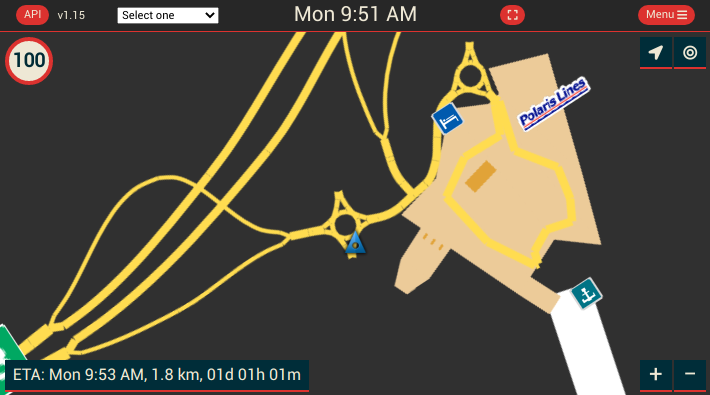
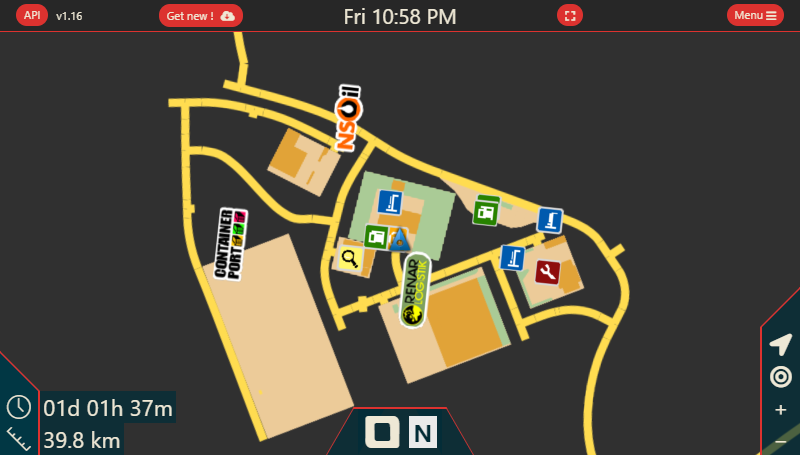
:memo: [feat/maps] #3 update documentation

diff --git a/doc/FEATURES.md b/doc/FEATURES.md
@@ -100,5 +100,41 @@ To open it, tape 5 time on the left bottom corner.
 
 Click on the copy button to coping this list in your clipboard.
 
+## Maps
+
+![Maps](../public/img/screenshots/maps.png)
+
+I'm proud to introduce the Map (You can retreive this map on the Ets2-Route-Advisor) !
+
+Currently, I'm introduced the map with some navigation data only. Not the full route advisor.
+
+#### Features
+
+- ETA remaining time for the current target navigation
+- ETA due time for the current target navigation
+- ETA remaining distance
+- Map controls (North lock, recenter, zoom in and zoom out)
+- Current speed
+- Current gear
+
+#### Map support
+
+- Vanilla map (ETS & ATS)
+- Promod map (Promod for ETS & Promod Canada)
+
+#### Available configuration
+
+You can chose to show or hide all features elements listed below.
+
+Go to the `Map > Config > Map of route advisor` section to set your choices ;)
+
+To know all available configurations, see the `CONFIG_SETTINGS.md`
+
+#### Additionnal setup
+
+You can choos to load the tiles map from a remote (by default) or choice to load it from your computer.
+
+See the main `README.md` to know how :D
+
 ---
 ↩ [Home](../README.md)

diff --git a/doc/CONFIG_SETTINGS.md b/doc/CONFIG_SETTINGS.md
@@ -737,5 +737,7 @@ You can find common elements, and skin config.
 
 </table>
 
+> Note: When the `maps_map_tilesLocations` is set to `local`, you need to download the tiles collection. See the main README.
+
 ---
 ↩ [Home](../README.md)
